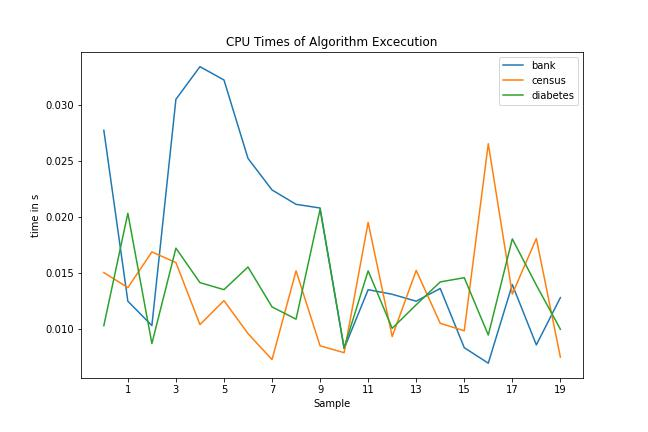
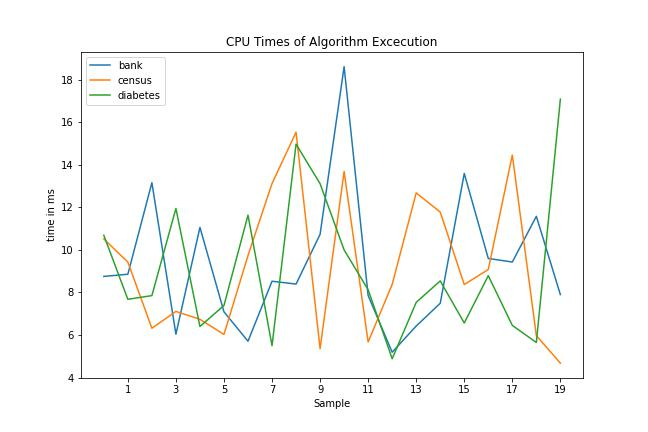
Better Time-Testing
Habe eine genauere  Funktion benutzt um die Zeiten zu messen

diff --git a/Multicolor-Fair-Clusterin/Pythonskripte/AutoAnalyzer.py b/Multicolor-Fair-Clusterin/Pythonskripte/AutoAnalyzer.py
@@ -55,11 +55,11 @@ def do_algorithm(samplename, numOfSamples = 20, maxCluster = 20):
         # Prozess erzeugen
         process = bash_command(command)
         # Zeitmessung Starten
-        startTime = time.process_time();
+        startTime = time.process_time_ns();
         # Prozess starten
         process.communicate()
         # Zeitmessung stoppen
-        algoTimer.append(time.process_time() - startTime)
+        algoTimer.append(time.process_time_ns() - startTime)
         print(f"Cluster made for Sample: {inputfile}")
     
     return algoTimer
@@ -166,12 +166,12 @@ def analyze_times(timestamps, picturePath, labels):
     
     fig, ax = plt.subplots(figsize=(9,6))
     for i in range(0, len(labels)):
-        ax.plot(range(0, len(timestamps[0])), timestamps[i], label = labels[i])
+        ax.plot(range(0, len(timestamps[0])), [e / 1_000_000 for e in timestamps[i]], label = labels[i])
 
     ax.set_xticks(list(range(1, len(timestamps[0]) + 1, intervalls)))
     ax.set_title("CPU Times of Algorithm Excecution")
     ax.set_xlabel("Sample")
-    ax.set_ylabel("time in s")
+    ax.set_ylabel("time in ms")
     ax.legend()
     plt.savefig(picturePath)
     plt.show()   
